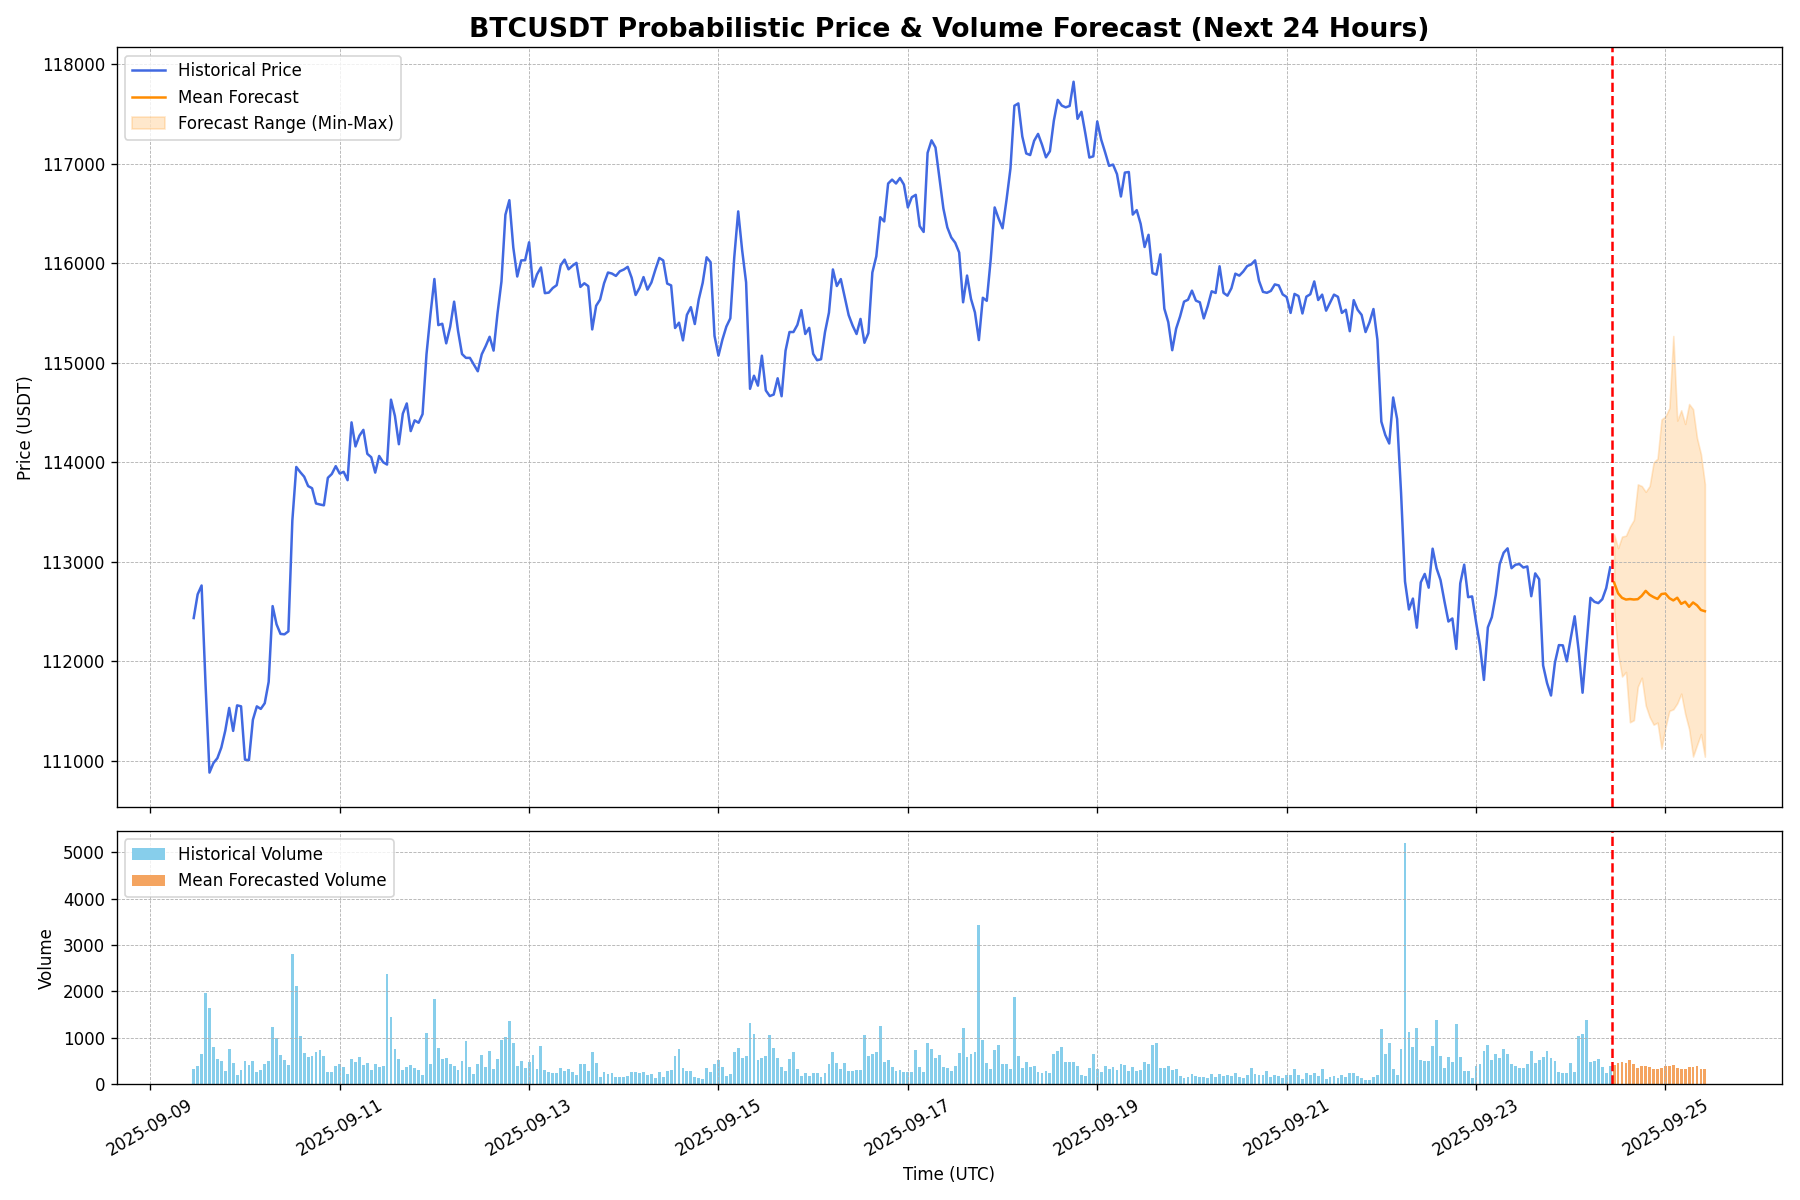
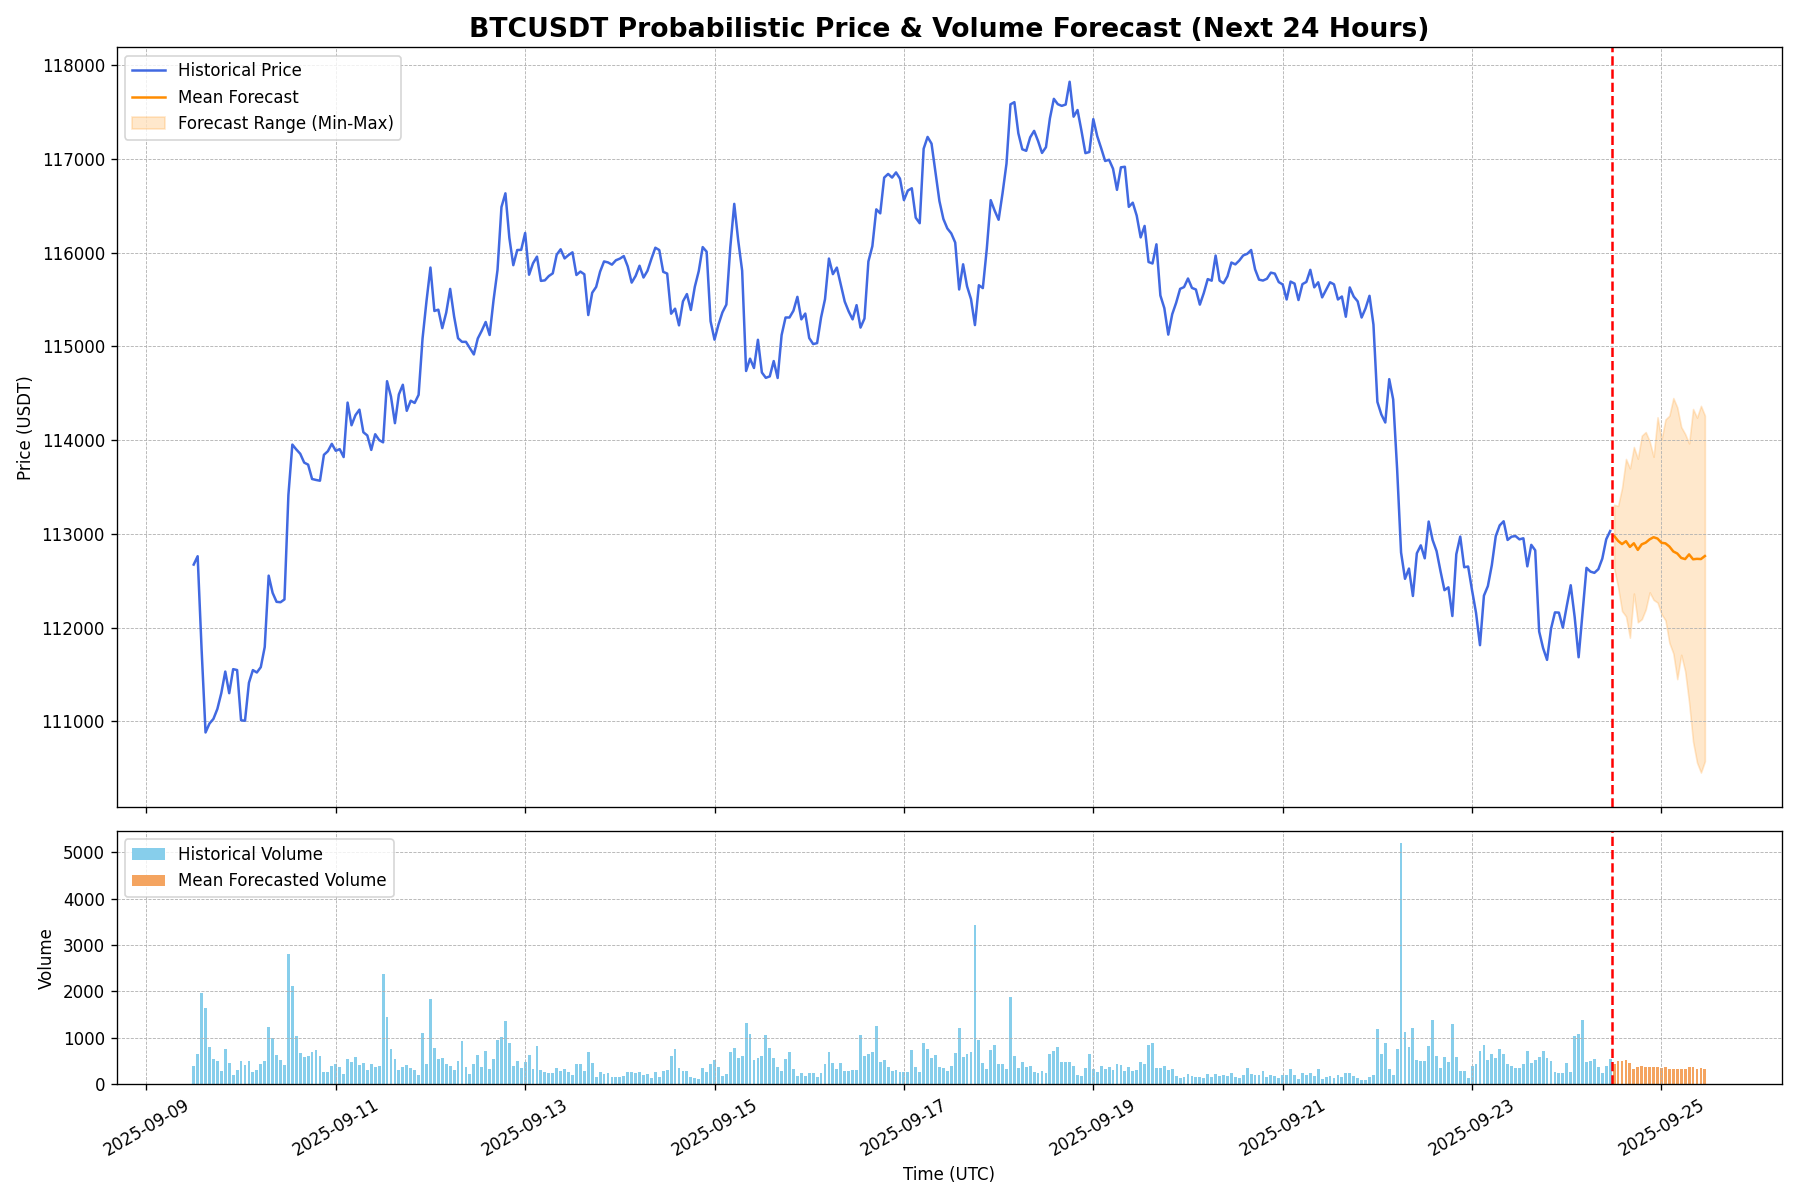
Auto commit

diff --git a/index.html b/index.html
@@ -286,14 +286,14 @@
         <section id="live-dashboard">
             <h2>BTC/USDT实时AI预测</h2>
             <div class="metadata">
-                <span>更新时间: <strong id="update-time">2025-09-24 11:00:20</strong>（北京时间+8小时）</span>
+                <span>更新时间: <strong id="update-time">2025-09-24 12:00:21</strong>（北京时间+8小时）</span>
                 <span>数据来源: 币安 | 1小时数据</span>
             </div>
 
             <div class="metrics-container">
                 <div class="metric-card">
                     <h3>未来12小时上涨概率</h3>
-                    <p class="metric-value" id="upside-prob">23.3%</p>
+                    <p class="metric-value" id="upside-prob">30.0%</p>
                 </div>
                 <div class="metric-card">
                     <h3>未来12小时波动率</h3>
